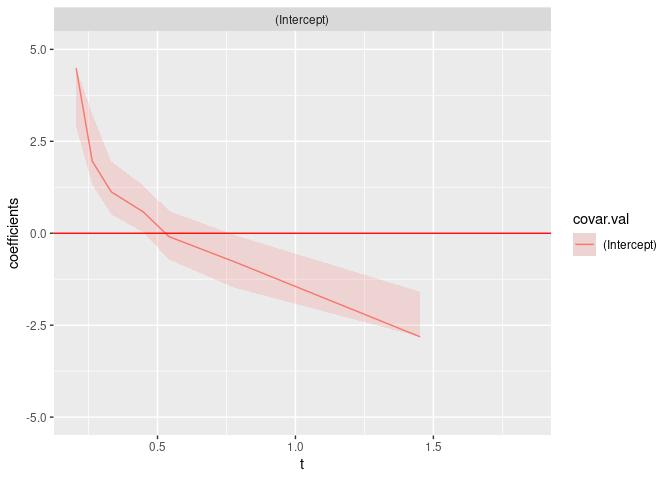
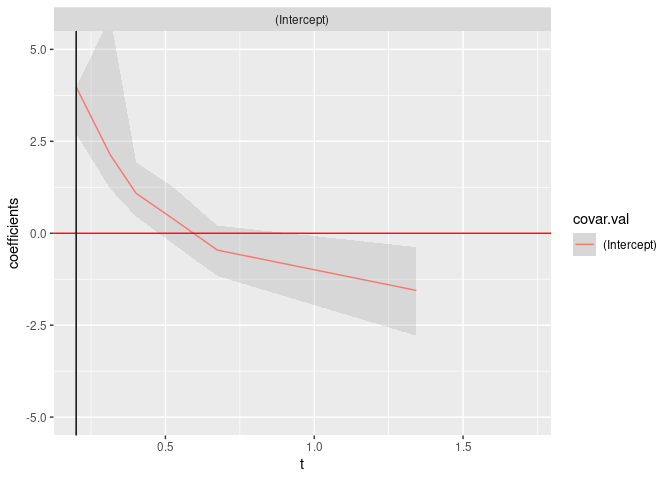
Update README

diff --git a/README.md b/README.md
@@ -95,7 +95,7 @@ crude_synth_idm_data <- netidmtpreg:::apply_iddata_death(
 )
 ```
 
-Now let’s carry the of net survival estimation:
+Now let’s carry net survival estimation:
 
 ``` r
 # Estimation can be sped up and carried in parrallel using futures:
@@ -127,11 +127,80 @@ We obtain a `TPreg` object with a dedicated plotting method using
 ggplot:
 
 ``` r
-plot(net_estimate) + ggplot2::ylim(-5, 5)
+plot(net_estimate) + ggplot2::coord_cartesian(ylim = c(-5, 5))
 #> Warning: Removed 1 row containing missing values or values outside the scale range
 #> (`geom_line()`).
 ```
 
 <img src="man/figures/README-plot-1.png" width="100%" />
+
+*Warning: note the use of `ggplot2::coord_cartesian` instead of
+`ggplot2::ylim`. The former acts as a “zoom” command, while the latter
+acts as a filter on input data, and as such might prevent display of
+large confidence intervals.*
+
+The obtained TPreg plots are composable ggplot objects that can be
+combined. Let’s use this to compare our results with: 1) what would have
+been obtained without background mortality (‘ground truth’), and 2) what
+would have been obtained on the same data without taking into account
+population mortality (‘crude estimate’).
+
+``` r
+# Estimation can be sped up and carried in parrallel using futures:
+future::plan("multisession") # will work on any OS
+# future::plan("multicore") # more efficient but only works on UNIX systems
+crude_estimate <- fit_netTPreg(
+  formula = ~1, # intercept only model, similar to Pohar-Perme estimation
+  data = crude_synth_idm_data,
+  # Use a standard ratetable
+  ratetable = NULL,
+  s = 0.2,
+  by = n_ind / 10,
+  trans = "11",
+  link = "logit",
+  R = 100 # Number of bootstraps
+)
+#> [1] "estimate"
+#> [1] "bootstrap"
+
+truth_estimate <- fit_netTPreg(
+  formula = ~1, # intercept only model, similar to Pohar-Perme estimation
+  data = synth_idm_data, # data without added population mortality
+  # Use a standard ratetable
+  ratetable = NULL,
+  s = 0.2,
+  by = n_ind / 10,
+  trans = "11",
+  link = "logit",
+  R = 100 # Number of bootstraps
+)
+#> [1] "estimate"
+#> [1] "bootstrap"
+future::plan("sequential") # close the multisession, see future's documentation
+```
+
+You can use the reserved keyword `model` to set the model name and
+automatically set the linetype accordingly.
+
+``` r
+autoplot(net_estimate, model = "Net estimate") +
+  autolayer(crude_estimate, model = "Crude estimate") +
+  autolayer(truth_estimate, model = "Ground Truth") +
+  ggplot2::coord_cartesian(ylim = c(-5, 5))
+#> Warning: Removed 1 row containing missing values or values outside the scale range
+#> (`geom_line()`).
+#> Removed 1 row containing missing values or values outside the scale range
+#> (`geom_line()`).
+#> Removed 1 row containing missing values or values outside the scale range
+#> (`geom_line()`).
+```
+
+<img src="man/figures/README-plot_compare-1.png" width="100%" />
+
+These automated plotting routines are designed for quick inspection of
+the model. If you need more flexibility you can rely on [tidymodels
+`broom`](https://broom.tidymodels.org/articles/broom.html) style methods
+`tidy`, `augment` (*to be implemented*) and `glance` (*to be
+implemented*) to leverage `ggplot`’s flexibility.
 
 More examples to come\!
